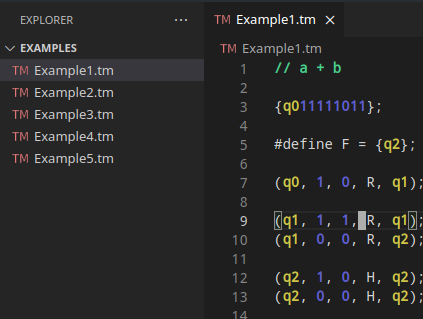
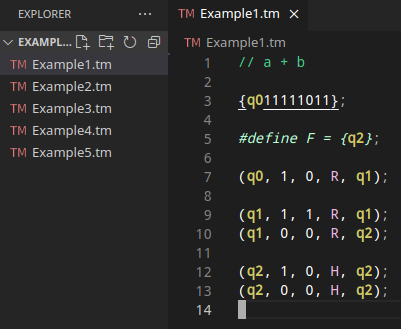
Better color support (#1)
* Added a light theme

* Improved colors

* Removed "dark" word

* Updated readmes

diff --git a/README.md b/README.md
@@ -1,7 +1,7 @@
 # Turing Machine language support for Visual Studio Code
 This extension enables syntax highlighting for .tm files
 
-![](images/demo.png)
+![A demo view of what it looks like](images/demo.png)
 
 
 Check out the [Turing Machine Simulator](https://github.com/margual56/TuringMachine)
@@ -10,8 +10,14 @@ Check out the [Turing Machine Simulator](https://github.com/margual56/TuringMach
 
 Syntax Highlighting and file icons.
 
+Note: This extension does **NOT** provide error highlighting support or hints. That feature is another whole ordeal I won't get into, sorry :)
+
 ## Release Notes
 
-### 1.0.0
+### 0.2.0
+
+Theming improvements
+
+### 0.1.0
 
 Initial extension support

diff --git a/CHANGELOG.md b/CHANGELOG.md
@@ -2,5 +2,10 @@
 
 All notable changes to the "turing-machine" extension will be documented in this file.
 
+## [0.2.0] - 15/11/2021
+* Improved (fixed) the formal definition of the language. That should mean that theming is more accurate
+* Improved syntax highlighting colors
+* Created light theme syntax highlighting
+
 ## [0.1.0] - 13/11/2021
 * Added everything needed to make the extension work
